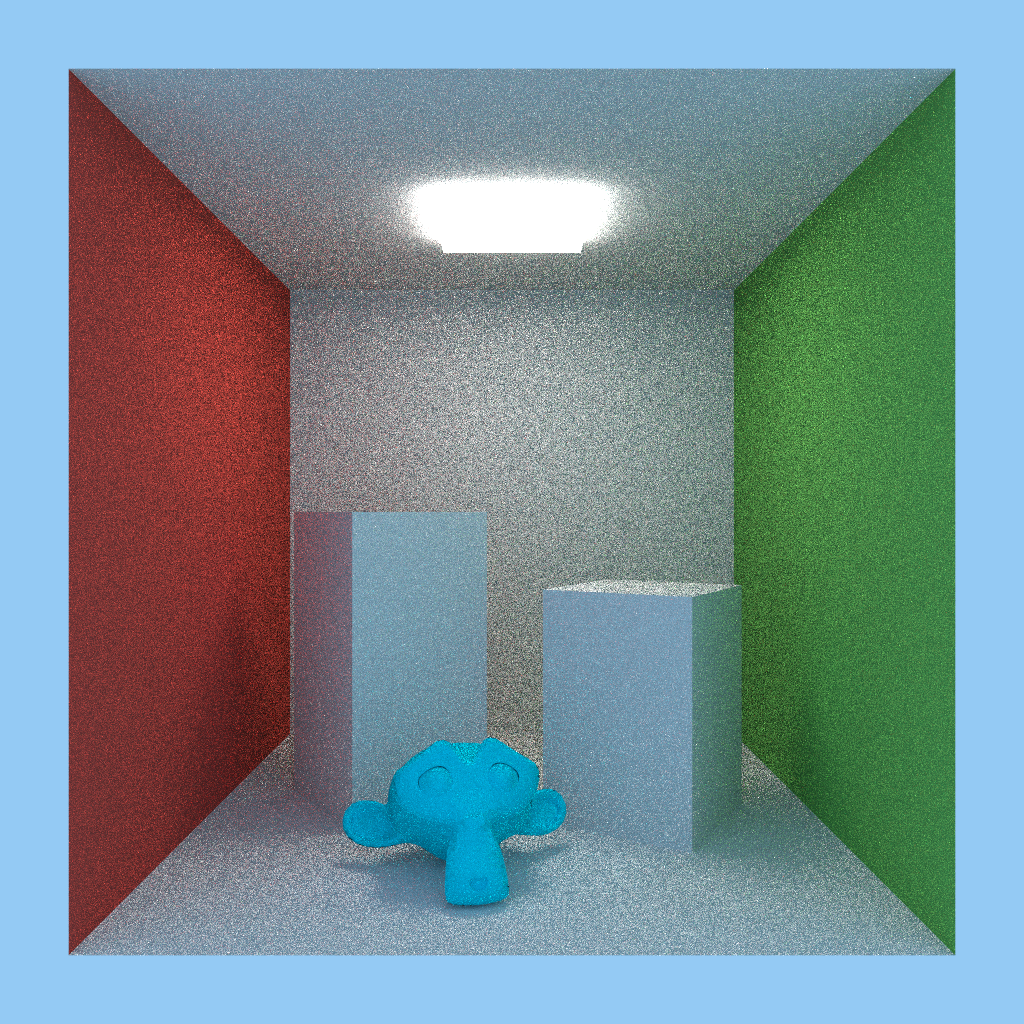
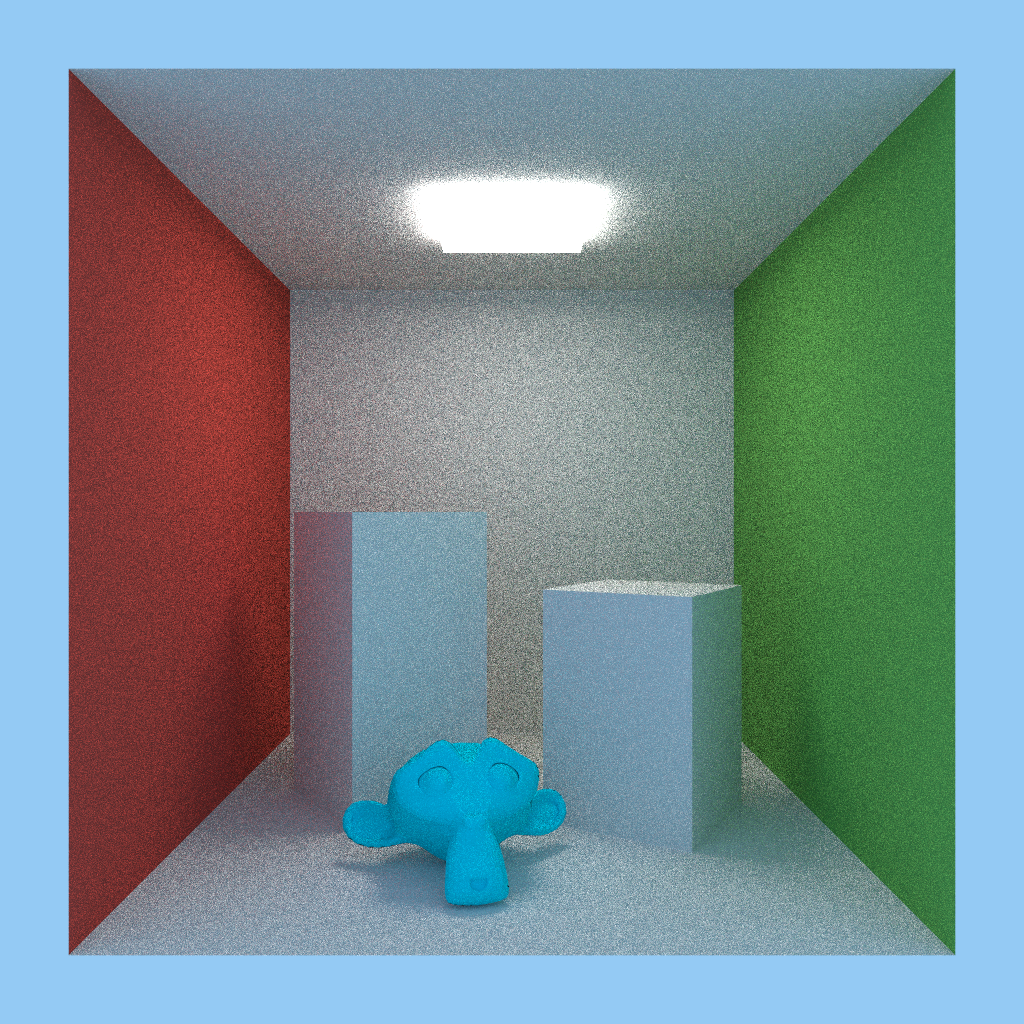
fixed cosine hemi sampling for BRDF

diff --git a/src/brdf.cpp b/src/brdf.cpp
@@ -5,7 +5,7 @@ static constexpr float TWO_PI	= 2.0F * PI;
 static constexpr float INV_PI	= 1.0F / PI;
 static constexpr float INV_2PI	= 1.0F / TWO_PI;
 
-#define COSINE_WEIGHTED_PDF	0
+#define COSINE_WEIGHTED_PDF	1
 
 LambertianBRDF::LambertianBRDF(glm::vec3 const& baseColor)
 	:
@@ -16,6 +16,13 @@ LambertianBRDF::LambertianBRDF(glm::vec3 const& baseColor)
 
 glm::vec3 LambertianBRDF::sample(Sampler& sampler) const
 {
+#if COSINE_WEIGHTED_PDF
+	glm::vec2 const r = sampler.sample2D();
+	float const theta = glm::acos(glm::sqrt(r.x));
+	float const phi = TWO_PI * r.y;
+
+	return glm::vec3(glm::sin(theta) * glm::cos(phi), glm::sin(theta) * glm::sin(phi), glm::cos(theta));
+#else
 	glm::vec3 dir{};
 	do {
 		dir.x = sampler.sampleRange(-1.0F, 1.0F);
@@ -26,17 +33,13 @@ glm::vec3 LambertianBRDF::sample(Sampler& sampler) const
 	if (dir.z < 0.0F) {
 		dir = -dir;
 	}
-
-#if COSINE_WEIGHTED_PDF
-	return glm::normalize(glm::vec3(0, 0, 1) + glm::normalize(dir)); //< cosine weighting
-#else
 	return glm::normalize(dir);
 #endif
 }
 
 glm::vec3 LambertianBRDF::evaluate(glm::vec3 const& wi, glm::vec3 const& wo, glm::vec3 const& N) const
 {
-	return m_baseColor * INV_PI * glm::dot(wo, N);
+	return m_baseColor * INV_PI;
 }
 
 float LambertianBRDF::pdf(glm::vec3 const& wo, glm::vec3 const& N) const

diff --git a/src/integrator.cpp b/src/integrator.cpp
@@ -133,7 +133,7 @@ glm::vec3 PathTracedIntegrator::trace(Ray const& ray, Sampler& sampler) const
 			LambertianBRDF brdf(material.baseColor);
 			glm::vec3 const wi = -rayDirection;
 			glm::vec3 const wo = TBN * brdf.sample(sampler);
-			throughput *= brdf.evaluate(wi, wo, N) / brdf.pdf(wo, N);
+			throughput *= (brdf.evaluate(wi, wo, N) * glm::dot(wo, N)) / brdf.pdf(wo, N);
 
 			glm::vec3 const D = wo;
 			glm::vec3 const O = glm::vec3(position) + D * tMin; // avoid self intersections by offsetting ray a small amount
